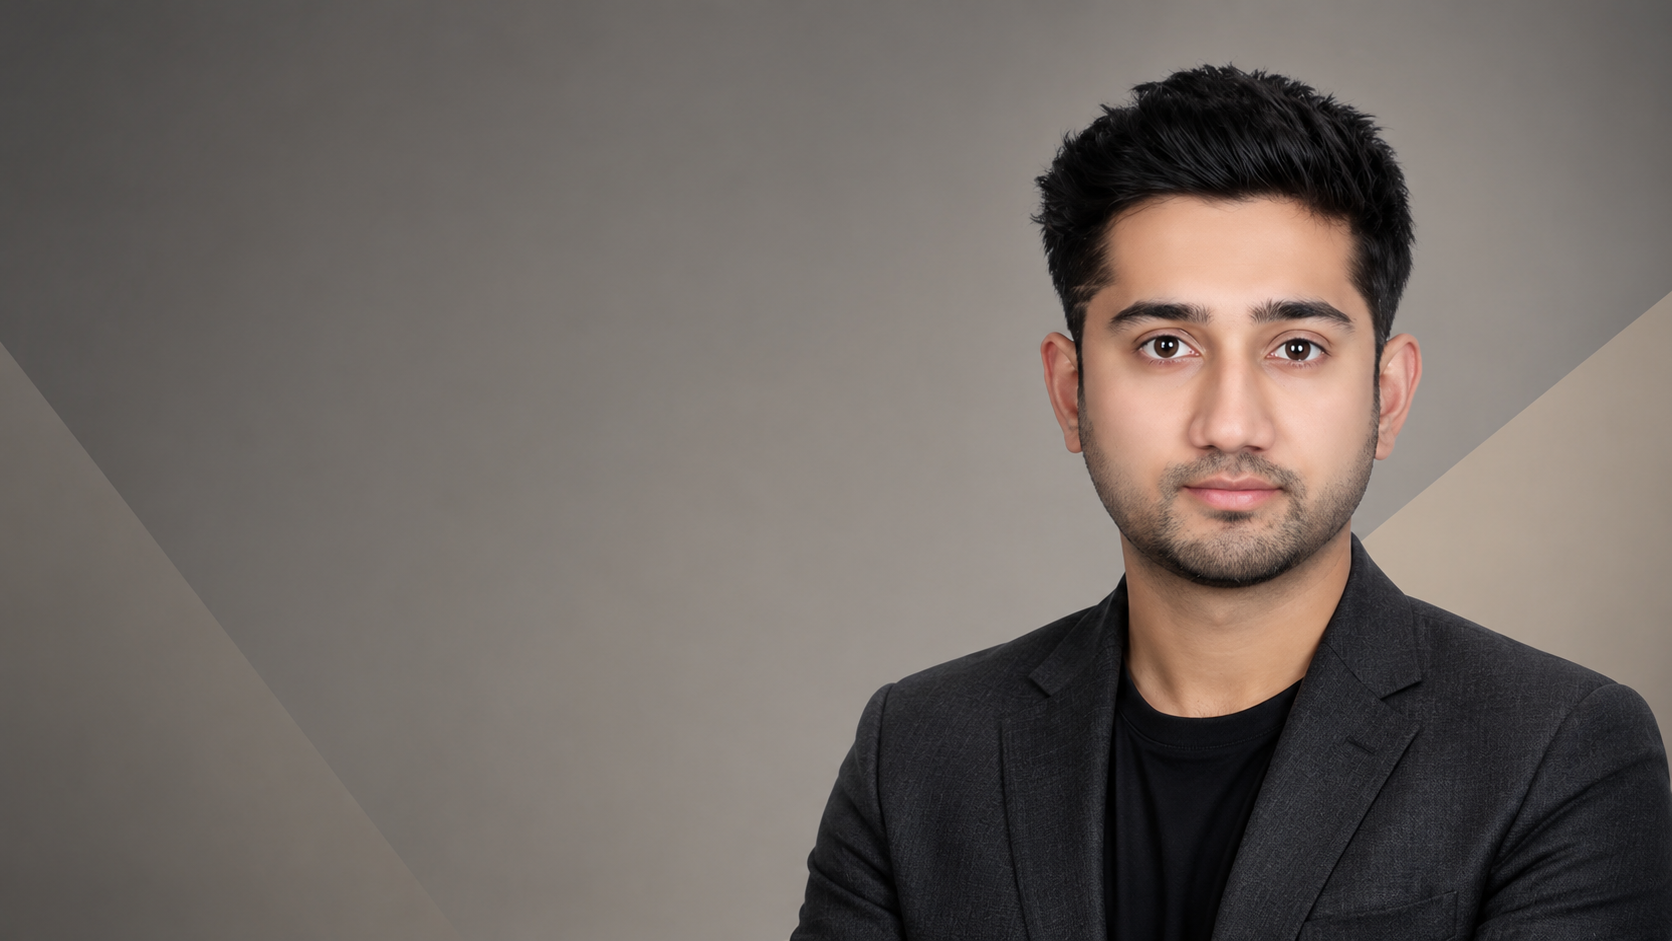
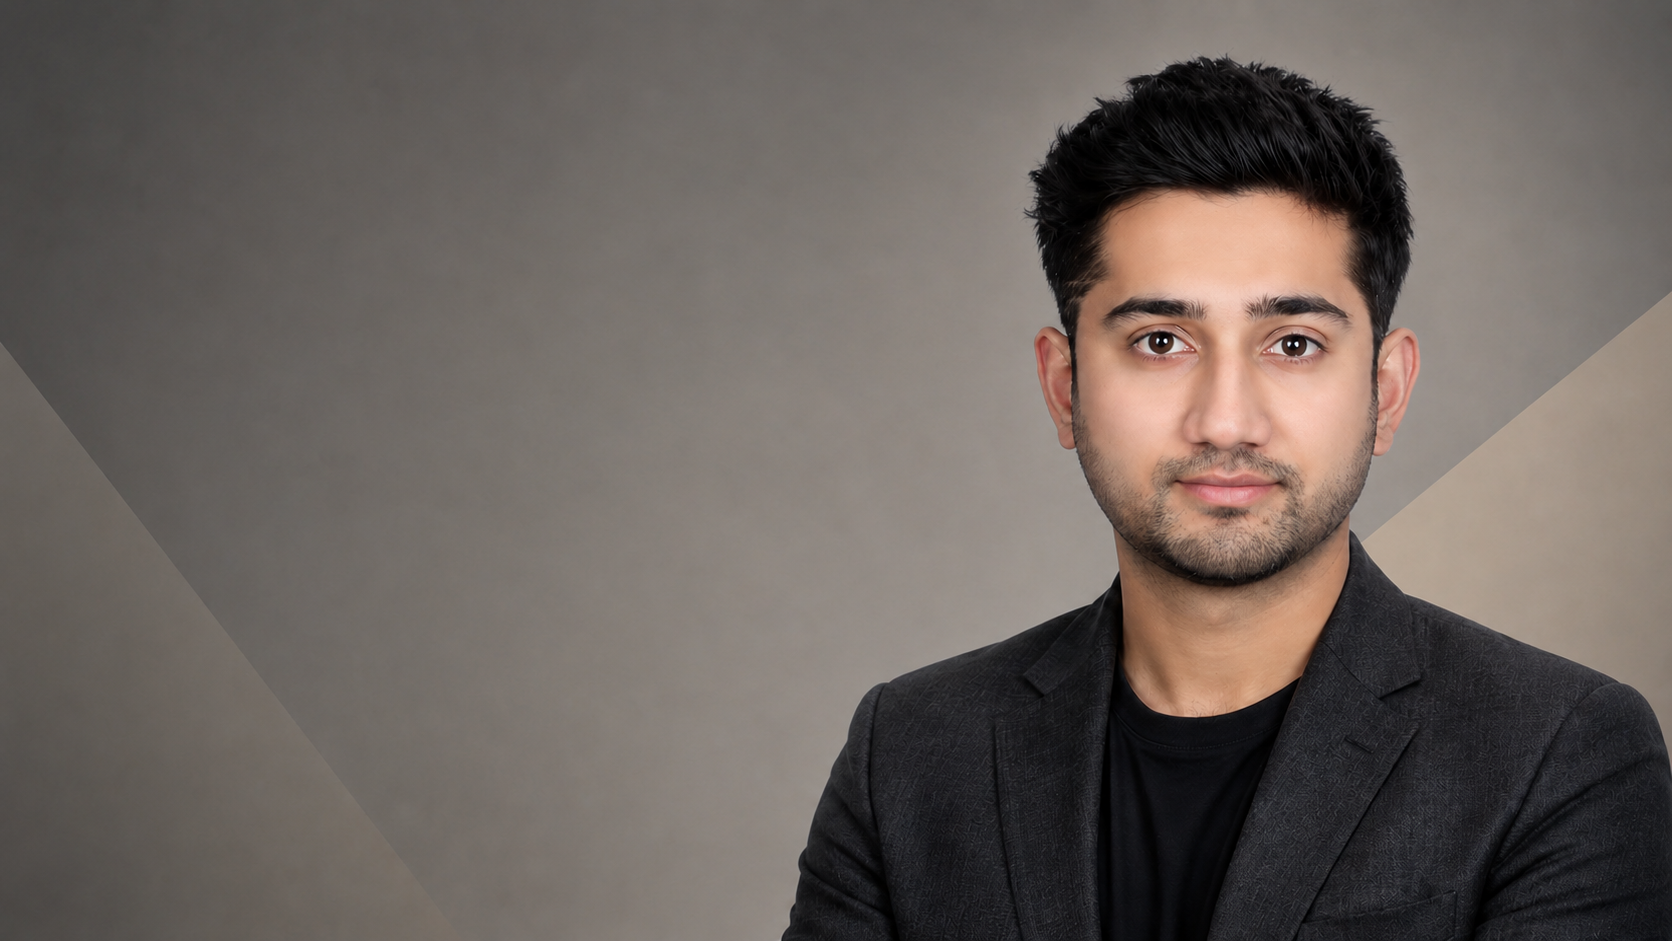
#3 updated pp

diff --git a/index.html b/index.html
@@ -151,7 +151,7 @@
             </div>
           </article>
 
-          <article class="timeline-item reveal" data-stream="teaching development">
+          <article class="timelinse-item reveal" data-stream="teaching development">
             <div class="timeline-date">Apr 2019 – Jun 2023</div>
             <div class="timeline-card">
               <div class="card-icon"><i class="fas fa-chalkboard-teacher"></i></div>